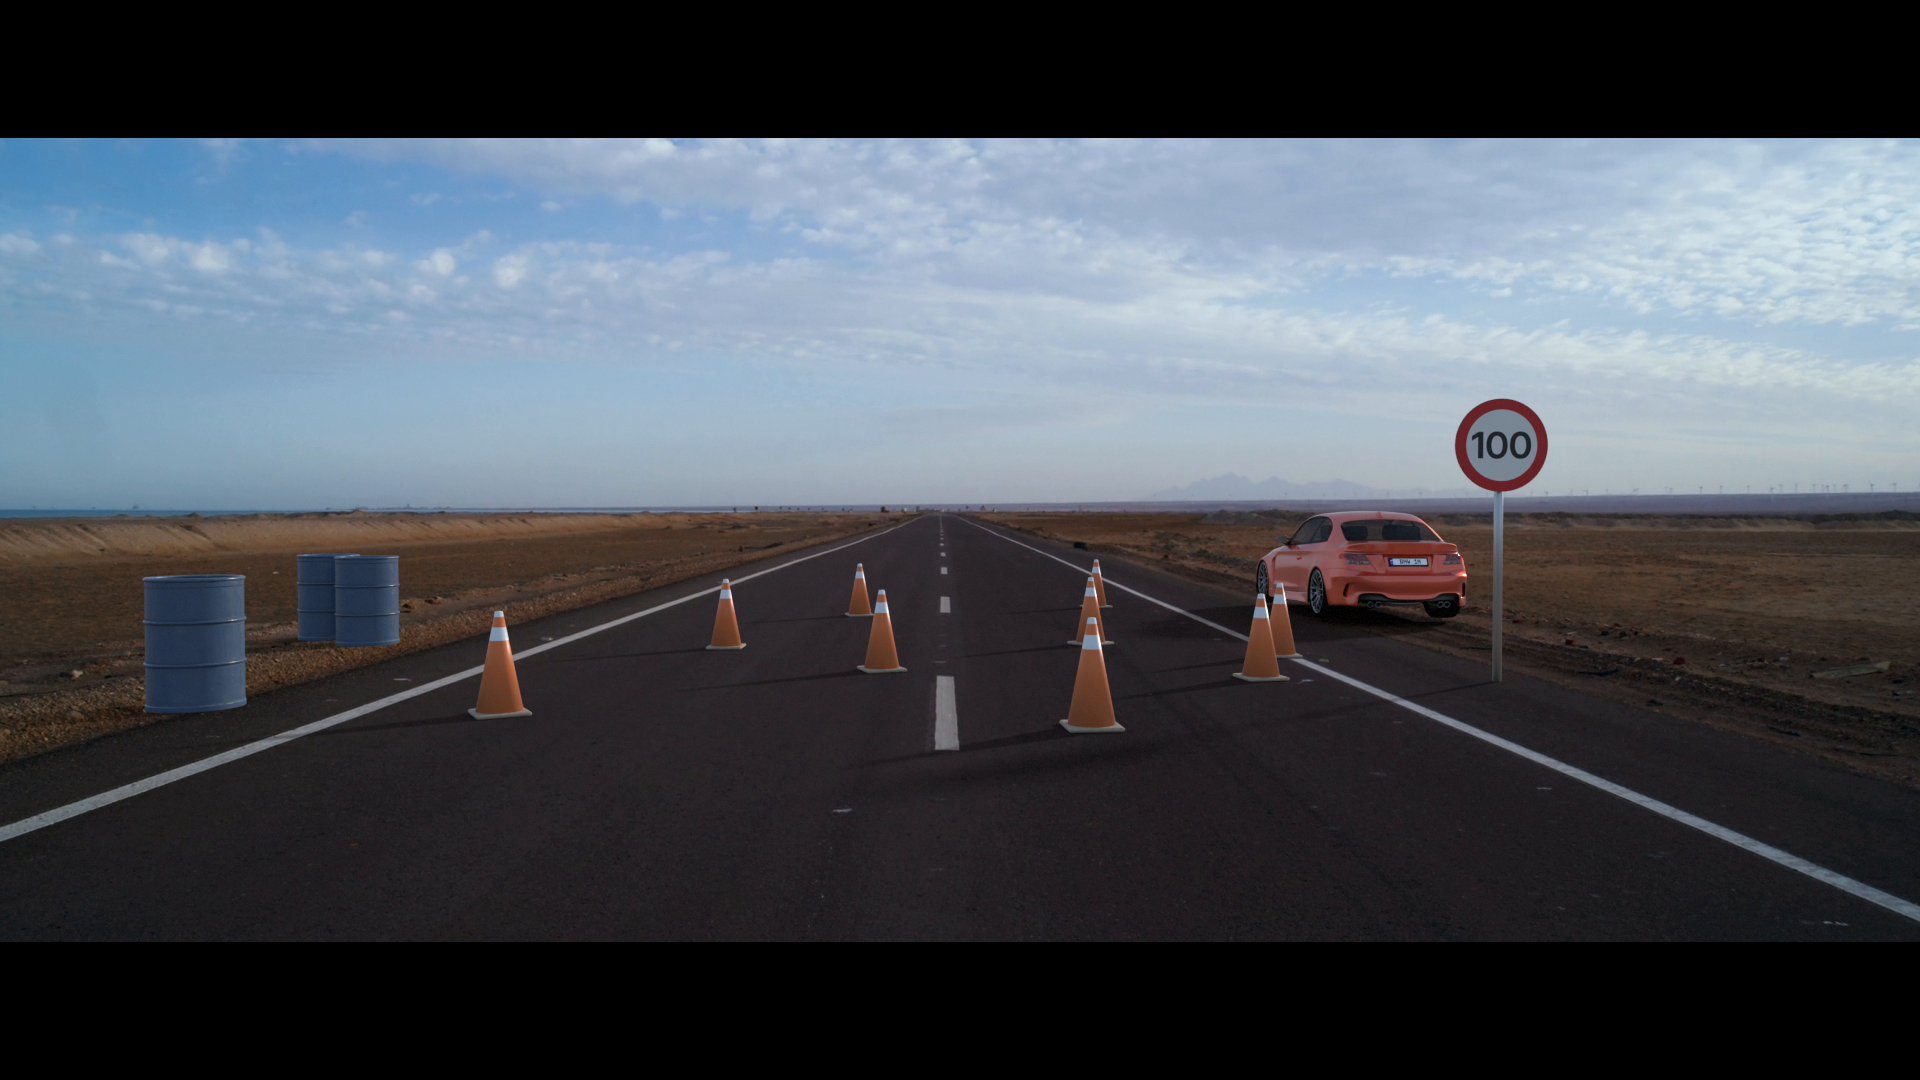
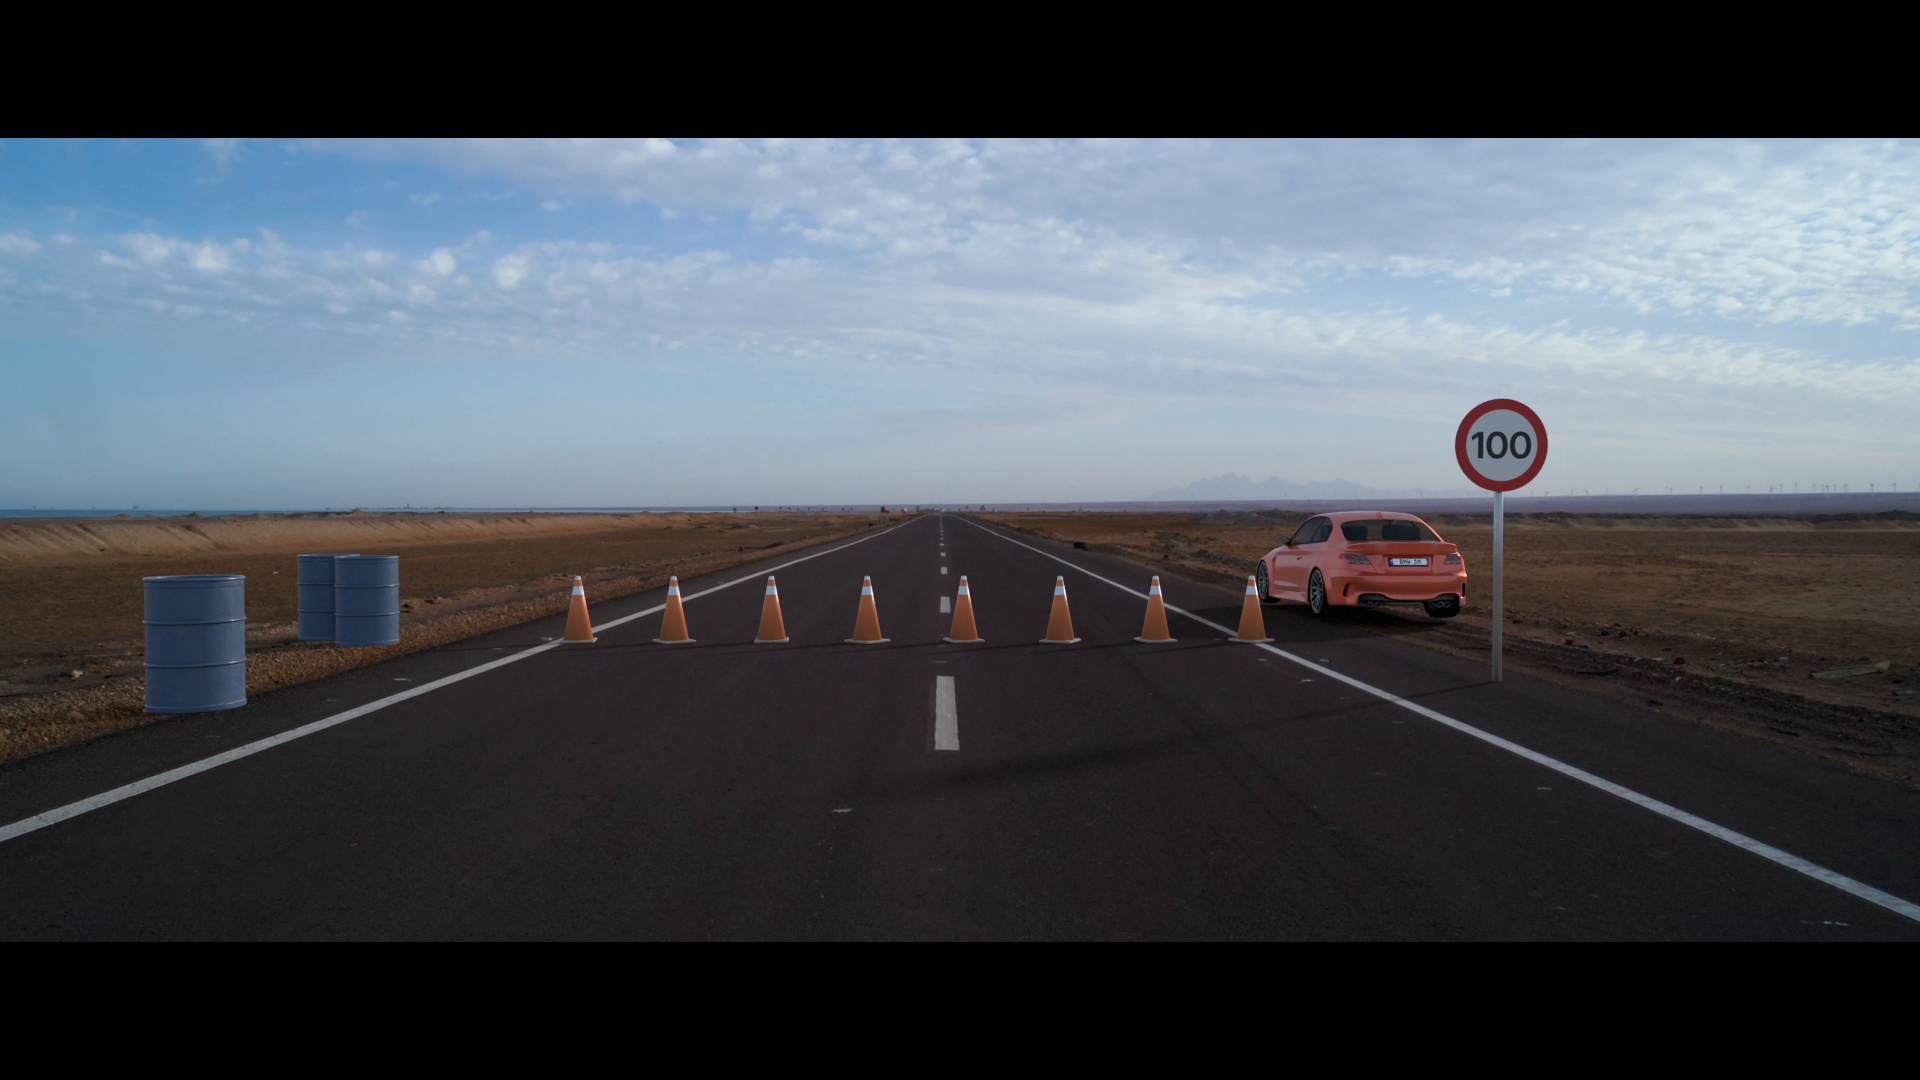
Speed ladder: road-closure cone row, and a survey of free aircraft models
The cones now stand in one row across both lanes, closing the road for the test. For the
aircraft version of the video: ac3d.py reads FlightGear's AC3D models into Blender, and
model_test.py renders each candidate over the plate, far and close. Candidates from
FlightGear (GPL) and NASA's 3D resources (public domain), compared in
media/speed_ladder/model_candidates.png.

Claude-Session: https://claude.ai/code/session_01JiAyeR91SyBLaS6BMo3UGR

diff --git a/world_roads/speed_ladder/ac3d.py b/world_roads/speed_ladder/ac3d.py
@@ -1,0 +1,178 @@
+"""Read AC3D (.ac) models, FlightGear's format, into Blender: the object tree with its transforms, polygons with UVs,
+materials and textures (png, jpg or SGI .rgb). AC3D is y-up; Blender is z-up: (x, y, z) -> (x, -z, y)."""
+import bpy, bmesh, os, math, re
+from mathutils import Matrix, Vector
+
+
+def _tok(line):
+    out, cur, q = [], "", False
+    for ch in line:
+        if ch == '"': q = not q; continue
+        if ch.isspace() and not q:
+            if cur: out.append(cur); cur = ""
+        else: cur += ch
+    if cur: out.append(cur)
+    return out
+
+
+class Reader:
+    def __init__(self, path):
+        raw = open(path, encoding="latin-1", newline="").read().splitlines(keepends=True)
+        self.lines = [l.rstrip("\r\n") for l in raw]
+        self.lens = [len(l) for l in raw]                 # with line endings, for 'data' blocks
+        self.i = 0
+        self.dir = os.path.dirname(path)
+
+    def next(self):
+        while self.i < len(self.lines):
+            l = self.lines[self.i]; self.i += 1
+            if l.strip(): return l
+        return None
+
+
+def _find_tex(d, name):
+    cands = [os.path.join(d, name), os.path.join(d, os.path.basename(name))]
+    base, _ = os.path.splitext(name)
+    for ext in (".png", ".rgb", ".jpg", ".dds", ".PNG", ".jpeg"):
+        cands += [os.path.join(d, base + ext), os.path.join(d, os.path.basename(base) + ext)]
+    up = os.path.dirname(d)
+    cands += [os.path.join(up, "Textures", os.path.basename(name)), os.path.join(up, os.path.basename(name))]
+    for c in cands:
+        if os.path.exists(c): return c
+    return None
+
+
+def _material(cache, m, texpath, prefix):
+    key = (id(m), texpath)
+    if key in cache: return cache[key]
+    name = f"{prefix}_{m['name']}" + (f"_{os.path.basename(texpath)}" if texpath else "")
+    mat = bpy.data.materials.new(name[:60]); mat.use_nodes = True
+    nt = mat.node_tree; p = nt.nodes["Principled BSDF"]
+    r, g, b = m["rgb"]
+    p.inputs["Base Color"].default_value = (r, g, b, 1)
+    shi = m.get("shi", 0)
+    p.inputs["Roughness"].default_value = max(0.12, 0.85 - 0.6 * min(shi, 128) / 128)
+    trans = m.get("trans", 0.0)
+    if texpath:
+        tex = nt.nodes.new("ShaderNodeTexImage")
+        try:
+            tex.image = bpy.data.images.load(texpath, check_existing=True)
+        except RuntimeError:
+            tex.image = None
+        if tex.image is not None:
+            mul = nt.nodes.new("ShaderNodeMix"); mul.data_type = "RGBA"; mul.blend_type = "MULTIPLY"
+            mul.inputs["Factor"].default_value = 1.0
+            nt.links.new(tex.outputs["Color"], mul.inputs["A"])
+            mul.inputs["B"].default_value = (min(1, r * 1.0 + 0.0), g, b, 1) if max(r, g, b) > 0.05 else (1, 1, 1, 1)
+            nt.links.new(mul.outputs["Result"], p.inputs["Base Color"])
+            if tex.image.depth in (32, 64, 128) or texpath.lower().endswith(".png"):
+                nt.links.new(tex.outputs["Alpha"], p.inputs["Alpha"])
+    if trans > 0.05:
+        p.inputs["Alpha"].default_value = 1 - trans
+        p.inputs["Roughness"].default_value = 0.05
+    cache[key] = mat
+    return mat
+
+
+def load(path, prefix="ac", skip=None, collection=None):
+    """import an .ac file; returns the created mesh objects. skip(name) -> True drops an object (and its children)"""
+    R = Reader(path)
+    head = R.next()
+    assert head.startswith("AC3D"), head
+    mats, objs, cache = [], [], {}
+    col = collection or bpy.context.scene.collection
+
+    def parse_object(parent_M, skipped):
+        l0 = R.next()
+        if l0 is None: return                       # some files promise more kids than they hold
+        hdr = _tok(l0)
+        kind = hdr[1] if len(hdr) > 1 else "poly"
+        name, tex, texrep, texoff = kind, None, (1.0, 1.0), (0.0, 0.0)
+        rot, loc = Matrix.Identity(3), Vector((0, 0, 0))
+        verts, surfs = [], []
+        nk = 0
+        while True:
+            l = R.next()
+            if l is None: break
+            t = _tok(l)
+            k = t[0]
+            if k == "name": name = t[1] if len(t) > 1 else ""
+            elif k == "data":
+                n = int(t[1]); got = 0
+                while got < n and R.i < len(R.lines):
+                    got += R.lens[R.i]; R.i += 1
+            elif k == "texture": tex = t[1]
+            elif k == "texrep": texrep = (float(t[1]), float(t[2]))
+            elif k == "texoff": texoff = (float(t[1]), float(t[2]))
+            elif k == "rot":
+                v = [float(x) for x in t[1:10]]
+                rot = Matrix(((v[0], v[1], v[2]), (v[3], v[4], v[5]), (v[6], v[7], v[8])))
+            elif k == "loc": loc = Vector([float(x) for x in t[1:4]])
+            elif k == "numvert":
+                for _ in range(int(t[1])):
+                    verts.append(Vector([float(x) for x in R.next().split()[:3]]))
+            elif k == "numsurf":
+                for _ in range(int(t[1])):
+                    flags = int(_tok(R.next())[1], 0)
+                    tm = _tok(R.next()); mi = int(tm[1]) if tm[0] == "mat" else 0
+                    if tm[0] != "mat": R.i -= 1
+                    nref = int(_tok(R.next())[1])
+                    refs = []
+                    for _ in range(nref):
+                        a = R.next().split()
+                        refs.append((int(a[0]), float(a[1]) if len(a) > 1 else 0.0, float(a[2]) if len(a) > 2 else 0.0))
+                    surfs.append((flags, mi, refs))
+            elif k == "kids":
+                nk = int(t[1])
+                break
+        # AC3D: a child's vertices are in its parent's frame, moved by its own loc (rot rarely used)
+        M = parent_M @ Matrix.Translation(loc) @ rot.to_4x4()
+        drop = skipped or (skip is not None and skip(name))
+        if verts and surfs and not drop:
+            bm = bmesh.new()
+            bv = [bm.verts.new(M @ v) for v in verts]
+            uvl = bm.loops.layers.uv.new()
+            texpath = _find_tex(R.dir, tex) if tex else None
+            matlist = []
+            for flags, mi, refs in surfs:
+                if flags & 0x0F != 0 or len(refs) < 3: continue
+                idx = [r[0] for r in refs]
+                if len(set(idx)) < 3: continue
+                try:
+                    f = bm.faces.new([bv[i] for i in idx])
+                except ValueError:
+                    continue
+                f.smooth = bool(flags & 0x10)
+                key = (mi, texpath)
+                if key not in matlist: matlist.append(key)
+                f.material_index = matlist.index(key)
+                for lp, r in zip(f.loops, refs):
+                    lp[uvl].uv = (r[1] * texrep[0] + texoff[0], r[2] * texrep[1] + texoff[1])
+            me = bpy.data.meshes.new(name or kind)
+            bm.to_mesh(me); bm.free()
+            # y-up to z-up
+            me.transform(Matrix(((1, 0, 0, 0), (0, 0, -1, 0), (0, 1, 0, 0), (0, 0, 0, 1))))
+            for mi, tp in matlist:
+                m = mats[mi] if mi < len(mats) else {"name": "default", "rgb": (0.7, 0.7, 0.7)}
+                me.materials.append(_material(cache, m, tp, prefix))
+            o = bpy.data.objects.new(f"{prefix}_{name}"[:60], me)
+            col.objects.link(o)
+            objs.append(o)
+        for _ in range(nk):
+            parse_object(M, drop)
+
+    while True:
+        l = R.next()
+        if l is None: break
+        t = _tok(l)
+        if t[0] == "MATERIAL":
+            m = {"name": t[1]}
+            for j in range(2, len(t)):
+                if t[j] == "rgb": m["rgb"] = tuple(float(x) for x in t[j + 1:j + 4])
+                elif t[j] == "shi": m["shi"] = float(t[j + 1])
+                elif t[j] == "trans": m["trans"] = float(t[j + 1])
+            mats.append(m)
+        elif t[0] == "OBJECT":
+            R.i -= 1
+            parse_object(Matrix.Identity(4), False)
+    return objs

diff --git a/world_roads/speed_ladder/model_test.py b/world_roads/speed_ladder/model_test.py
@@ -1,0 +1,86 @@
+"""Render candidate aircraft over the plate, one still each, to judge the models:  bpy-python model_test.py name..."""
+import bpy, sys, os, math, re, time
+from mathutils import Vector, Matrix
+sys.path.insert(0, os.path.dirname(os.path.abspath(__file__)))
+import scene as S, ac3d
+
+FG = "/home/user/dl/fg/x"
+NASA = "/home/user/nasa/nasa-3d-resources/3D Models"
+MODELS = {
+    "wright": ("ac", f"{FG}/wrightFlyer1903/wrightFlyer1903/Models/WrightFlyer-pb-jw.ac"),
+    "bleriot": ("ac", f"{FG}/bleriot-XI/bleriot-XI/Models/bleriot-XI.ac"),
+    "spirit": ("ac", f"{FG}/Ryan-SoSL/Ryan-SoSL/Models/ryan-sosl.ac"),
+    "p51": ("ac", f"{FG}/p51d/p51d/Models/P-51D-25NA.ac"),
+    "spitfire": ("ac", f"{FG}/spitfireIX/spitfireIX/Models/spitfire9.ac"),
+    "me262": ("ac", f"{FG}/ME-262/ME-262/Models/me262.ac"),
+    "x1": ("ac", f"{FG}/Bell-X1/Bell-X1/Models/x1.ac"),
+    "sr71": ("ac", f"{FG}/Lockheed-SR71/Lockheed-SR71/Models/sr71.ac"),
+    "sr71b": ("ac", f"{FG}/SR71-BlackBird/SR71-BlackBird/Models/SR-71-Blackbird-Base.ac"),
+    "xb70": ("ac", f"{FG}/XB-70/XB-70/Models/xb-70.ac"),
+    "x15": ("ac", f"{FG}/X15/X15/Models/X15.ac"),
+    "concorde": ("ac", f"{FG}/Concorde/Concorde/Models/concorde.ac"),
+    "starship": ("ac", f"{FG}/Starship/Starship/Models/starship.ac"),
+    "shuttle": ("glb", f"{NASA}/Space Shuttle (D)/Space Shuttle (D).glb"),
+    "parker": ("glb", f"{NASA}/Parker Solar Probe/Parker Solar Probe.glb"),
+}
+SCALE = {"shuttle": 0.0254}
+ROT = {}                                                 # extra heading (rad) where a model's nose isn't along -x
+ROTX = {"shuttle": -math.pi / 2}
+SKIP = re.compile(r"pilot|cockpit|interior|panel|instrument|shadow|seat|yoke|stick|pedal|throttle|halo|flare|disc|blur|"
+                  r"glow|beacon|strobe|smoke|contrail|flame|afterburn|chute|reflect|landing.?light|light.?cone|procedural|"
+                  r"head|hand|helmet|body_pilot|glare|canopy_frame_int", re.I)
+
+
+def load(name):
+    kind, path = MODELS[name]
+    before = set(bpy.data.objects)
+    if kind == "ac":
+        ac3d.load(path, prefix=name, skip=lambda n: bool(SKIP.search(n or "")))
+    else:
+        bpy.ops.import_scene.gltf(filepath=path)
+    objs = [o for o in bpy.data.objects if o not in before]
+    root = bpy.data.objects.new(name, None); bpy.context.scene.collection.objects.link(root)
+    for o in objs:
+        if o.parent is None: o.parent = root
+    bpy.context.view_layer.update()
+    if name in SCALE:                                   # NASA's shuttle is in inches
+        root.scale = (SCALE[name],) * 3
+    if name in ROTX:                                    # ... and lies on its side
+        root.rotation_euler.x = ROTX[name]
+    bpy.context.view_layer.update()
+    # drop strays (animation helpers parked far away): objects whose centre is far from the median centre
+    import statistics
+    cs = {o: o.matrix_world @ (sum((Vector(b) for b in o.bound_box), Vector()) / 8) for o in objs if o.type == "MESH"}
+    med = Vector([statistics.median(c[i] for c in cs.values()) for i in range(3)])
+    for o, c in cs.items():
+        if (c - med).length > 40:
+            o.hide_render = True
+    pts = []
+    for o in objs:
+        if o.type == "MESH" and not o.hide_render:
+            mw = o.matrix_world
+            n = len(o.data.vertices)
+            pts += [mw @ o.data.vertices[i].co for i in range(0, n, max(1, n // 2000))]
+    lo = Vector([min(p[i] for p in pts) for i in range(3)]); hi = Vector([max(p[i] for p in pts) for i in range(3)])
+    return root, objs, lo, hi
+
+
+if __name__ == "__main__":
+    names = sys.argv[sys.argv.index("--") + 1:] if "--" in sys.argv else sys.argv[1:]
+    os.makedirs("/home/user/lot/render/models", exist_ok=True)
+    for name in names:
+        s = S.reset(samples=20)
+        root, objs, lo, hi = load(name)
+        size = hi - lo
+        print(f"{name}: {len(objs)} objects, size {size.x:.1f} x {size.y:.1f} x {size.z:.1f} m", flush=True)
+        # FlightGear models point their nose to -x (x is aft); NASA's: guess the long axis. Fly left to right (+x).
+        c = (lo + hi) / 2
+        close = os.environ.get("CLOSE")
+        L = max(size.x, size.y)
+        dist = 1250 * L / 1100 if close else 30.0          # close: the plane spans most of the frame width
+        z = 1.4 + 0.05 * dist if close else 6.0
+        rot = Matrix.Rotation(math.pi + (ROT.get(name, 0.0)), 4, "Z")
+        root.matrix_world = Matrix.Translation((0, dist, z)) @ rot @ Matrix.Translation(-c) @ root.matrix_world
+        s.render.filepath = f"/home/user/lot/render/models/{name}{'_close' if close else ''}.png"
+        t = time.time(); bpy.ops.render.render(write_still=True)
+        print(f"{name}: rendered in {time.time() - t:.0f}s", flush=True)

diff --git a/world_roads/speed_ladder/sound.py b/world_roads/speed_ladder/sound.py
@@ -1,7 +1,7 @@
 """A sound track for the test clip (roll, real-time pass, replay), synthesized.
   python sound.py total_seconds -> /home/user/lot/out/test2.wav
 
-Real time: desert wind; the ball rolling past at 50 mph; at 17,500 mph the crack of the shock arriving 35 ms after the
+Real time: desert wind; the 50 mph ball rushing in, its thud on the road; at 17,500 mph the crack of the shock arriving 35 ms after the
 pass (12 m at 343 m/s), the boom and rumble of the blast, gravel landing over the next second or two, the hiss of
 dust. Replay: the world muffled; a low drone and the sizzle of the plasma swelling as the ball crosses; silence as the
 shock travels toward the camera; a slowed, deeper boom when it arrives; the dust rumbling on."""
@@ -57,7 +57,7 @@ duck[a:b] = 0.35
 duck[int((T_BOOM2 - 0.6) * SR):b] = np.linspace(0.35, 0.05, b - int((T_BOOM2 - 0.6) * SR))
 out += 0.035 * w * duck[:, None]
 
-# the 50 mph shot: the ball rushing in, the thud on the road, the cone clipped and clattering away
+# the 50 mph shot: the ball rushing in, the thud on the road, the second landing off to the right
 import motion as M
 from layout import LAYOUT
 
@@ -120,14 +120,6 @@ for k in range(8):
 r, pan = dist_pan((M.X_LAND, 12.0, 0.0))
 add(thud(70, 0.35, 900, 1.0), M.T_LAND + r / 343, pan, 0.9)
 add(filt(rng.standard_normal(int(0.25 * SR)), "bandpass", [1500, 7000]) * np.exp(-np.arange(int(0.25 * SR)) / (0.05 * SR)), M.T_LAND + r / 343, pan, 0.15)
-sim_r = dict(np.load("/home/user/lot/props/sim_roll.npz"))
-xc = LAYOUT["cone9"][1] - (M.R_BALL + 0.07)
-tc = M.T_LAND + (xc - M.X_LAND) / M.VX1
-r, pan = dist_pan((LAYOUT["cone9"][1], 12.0, 0.4))
-add(plastic(1.0), tc + r / 343, pan, 0.6)
-for te, v, p in impacts(sim_r, "cone9"):
-    r, pan = dist_pan(p)
-    add(plastic(min(1.0, v / 4)), te + r / 343, pan, 0.35 * 12 / r)
 # the ball's second landing, off-screen right
 add(thud(60, 0.3, 700, 0.5), M.T_LAND + 2 * M.VZ1 / 9.81 + 0.06, 1.0, 0.5)
 

diff --git a/world_roads/speed_ladder/layout.py b/world_roads/speed_ladder/layout.py
@@ -3,15 +3,18 @@ import math, sys, os
 sys.path.insert(0, os.path.dirname(os.path.abspath(__file__)))
 
 # name: (kind, x, y, heading in degrees about z)
-LAYOUT = {
-    "cone1": ("cone", -2.3, 12.9, 0), "cone2": ("cone", -0.6, 11.0, 20), "cone3": ("cone", 1.5, 13.2, 40),
-    "cone4": ("cone", 2.6, 10.4, 10), "cone5": ("cone", -3.1, 8.6, 30), "cone6": ("cone", 0.9, 8.0, 5),
-    "cone7": ("cone", -1.2, 17.0, 15), "cone8": ("cone", 2.2, 18.5, 25),
-    "cone9": ("cone", 3.2, 12.05, 0),             # on the ball's line: the 50 mph ball clips it after its bounce
+# a line of cones across both lanes, edge line to edge line, 1.5 m beyond the ball's line: the road closed for the test
+ROW_Y = 13.5
+_ROW_X = [-4.0, -2.96, -1.92, -0.88, 0.16, 1.2, 2.24, 3.28]
+_JIT = [(0.03, 10), (-0.02, 35), (0.04, 5), (-0.03, 50), (0.02, 20), (-0.04, 65), (0.01, 15), (-0.02, 40)]
+
+# name: (kind, x, y, heading in degrees about z)
+LAYOUT = {f"cone{i + 1}": ("cone", x, ROW_Y + dy, h) for i, (x, (dy, h)) in enumerate(zip(_ROW_X, _JIT))}
+LAYOUT.update({
     "drum1": ("drum", -6.2, 13.4, 10), "drum2": ("drum", -6.9, 14.0, 70), "drum3": ("drum", -5.4, 9.0, 30),
     "sign": ("sign", 4.5, 10.2, 0),
     "car": ("car", 5.6, 17.2, 0),
-}
+})
 
 
 COM = {"cone": 0.15}                             # height of the centre of mass (the cone's base is heavy rubber)

diff --git a/world_roads/speed_ladder/rigid.py b/world_roads/speed_ladder/rigid.py
@@ -94,12 +94,7 @@ def build(sc):
         b = Body(kind, x, y, h)
         bodies[name] = b
         if sc == "roll":
-            if name == "cone9":
-                # the 33 kg ball at ~19 m/s, rising 2.5 m/s, clips the 3.5 kg cone above its centre of mass: the cone
-                # takes most of the ball's speed (crumpling plastic, no rebound) and tumbles; the ball barely slows
-                xc = x - (M.R_BALL + 0.07)
-                b.kick_t = M.T_LAND + (xc - M.X_LAND) / M.VX1
-                b.kick_v, b.kick_w = (16.0, 0.8, 3.4), (0.0, 13.0, 2.0)
+            pass                                     # at 50 mph nothing but the ball moves
         else:
             rad, top = (0.155, 0.71) if kind == "cone" else (0.29, 0.93)
             dy = abs(y - T.PY)

diff --git a/world_roads/speed_ladder/make_test3.py b/world_roads/speed_ladder/make_test3.py
@@ -1,5 +1,5 @@
-"""Test 3, with the props: 50 mph (the ball falls in, bounces off the road, clips a cone), then 17,500 mph in real time
-(the blast throws the cones and drums, bends the sign flat, rocks the parked car and blows in its windows); the replay
+"""Test 3, with the props: 50 mph (the ball falls in and bounces off the road in front of the line of cones closing
+it), then 17,500 mph in real time (the blast throws the cones and drums, bends the sign flat, rocks the parked car and blows in its windows); the replay
 follows (replay_comp.py).  -> /home/user/lot/out/test3_a.mp4"""
 import cv2, numpy as np, os, subprocess, sys
 sys.path.insert(0, os.path.dirname(os.path.abspath(__file__)))

diff --git a/world_roads/speed_ladder/motion.py b/world_roads/speed_ladder/motion.py
@@ -2,7 +2,7 @@
 
 The 50 mph ball: thrown from far left, it comes into view falling (it has already dropped ~1 m), hits the road at
 x = 0.8 m, bounces (restitution 0.4 for steel on asphalt, the friction of the hit takes 15% of its speed and sets it
-spinning) and clips the cone standing on its line.
+spinning) and hops away to the right.
 
 The blast of the 17,500 mph pass reaches each prop at t_hit (the ball's passage at its x plus the shock's travel); the
 impulse per area falls off as 1/distance from the path, ~200 Pa s at 2 m (rough: a 1 MJ/m line blast; a few atmospheres
